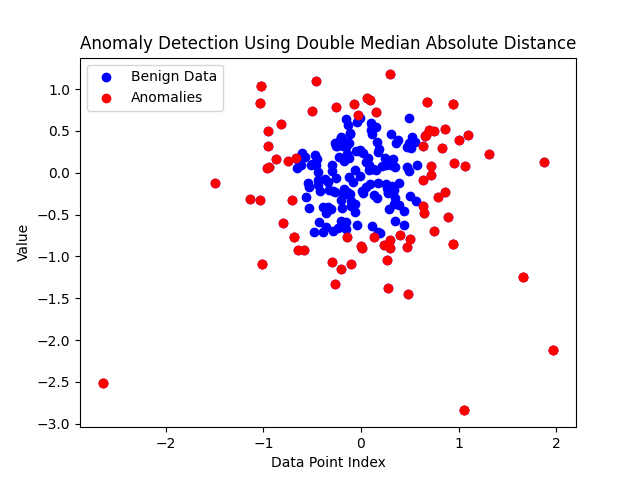
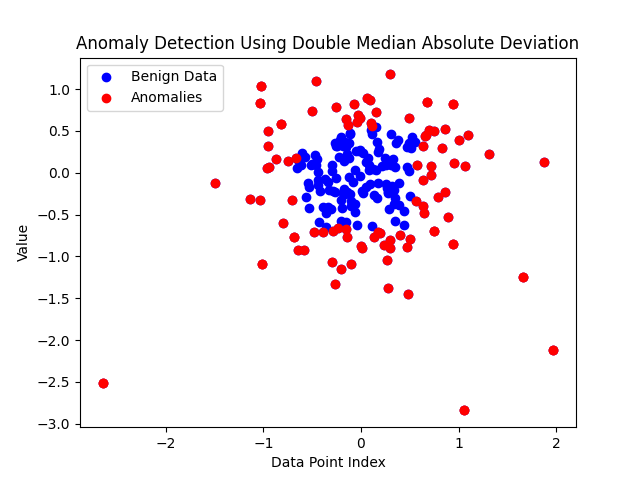
Modification to MAD portion of simulation, fixed double MAD calculation and added standard MAD calculation for comparison

diff --git a/simulation.py b/simulation.py
@@ -99,15 +99,26 @@ plt.savefig('output/LOF.png')
 
 
 #----------------------------------------
-#    Double Median Absolute Distance - John Darnall
+#    Double Median Absolute Deviation - John Darnall
 #----------------------------------------
 
-#calculating double median absolute distance
+#calculating double median absolute deviation bounds
+k = 3 #default standard check
 median = np.median(X_test)
-abs_diff = np.abs(X_test - median)
-double_MAD = 2 * median_abs_deviation(X_test)
 
-anomalies_indices = np.where(np.abs(X_test - median) > double_MAD)[0]
+lX_test = X_test[X_test <= median]
+uX_test = X_test[X_test > median]
+
+lMAD = median_abs_deviation(lX_test)
+uMAD = median_abs_deviation(uX_test)
+
+lower = median - k*lMAD
+upper = median + k*uMAD
+
+#comparing each point to upper and lower bounds to check for anomalies
+low_anomalies_indices = np.where(X_test < lower)[0]
+high_anomalies_indices = np.where(X_test >= upper)[0]
+anomalies_indices = np.concatenate((low_anomalies_indices, high_anomalies_indices))
 anomalies = X_test[anomalies_indices]
 
 print("Dataset: ", X_test)
@@ -119,9 +130,32 @@ plt.scatter(X_test[:,0], X_test[:,1], color = 'blue', label = 'Benign Data')
 plt.scatter(anomalies[:,0], anomalies[:,1], color = 'red', label = 'Anomalies')
 plt.xlabel('Data Point Index')
 plt.ylabel('Value')
-plt.title('Anomaly Detection Using Double Median Absolute Distance')
+plt.title('Anomaly Detection Using Double Median Absolute Deviation')
 plt.legend()
 plt.savefig('output/DoubleMAD.png')
+
+#standard MAD comparison
+MAD = median_abs_deviation(X_test)
+tlower = median - k*MAD
+tupper = median + k*MAD
+
+tlow_anomalies_indices = np.where(X_test < tlower)[0]
+thigh_anomalies_indices = np.where(X_test >= tupper)[0]
+tanomalies_indices = np.concatenate((tlow_anomalies_indices, thigh_anomalies_indices))
+tanomalies = X_test[tanomalies_indices]
+
+print("Dataset: ", X_test)
+print("Anomalies: ", tanomalies)
+
+#plotting data points
+plt.figure()
+plt.scatter(X_test[:,0], X_test[:,1], color = 'blue', label = 'Benign Data')
+plt.scatter(tanomalies[:,0], tanomalies[:,1], color = 'red', label = 'Anomalies')
+plt.xlabel('Data Point Index')
+plt.ylabel('Value')
+plt.title('Anomaly Detection Using Standard Median Absolute Deviation')
+plt.legend()
+plt.savefig('output/StandardMAD.png')
 
 
 #----------------------------------------
